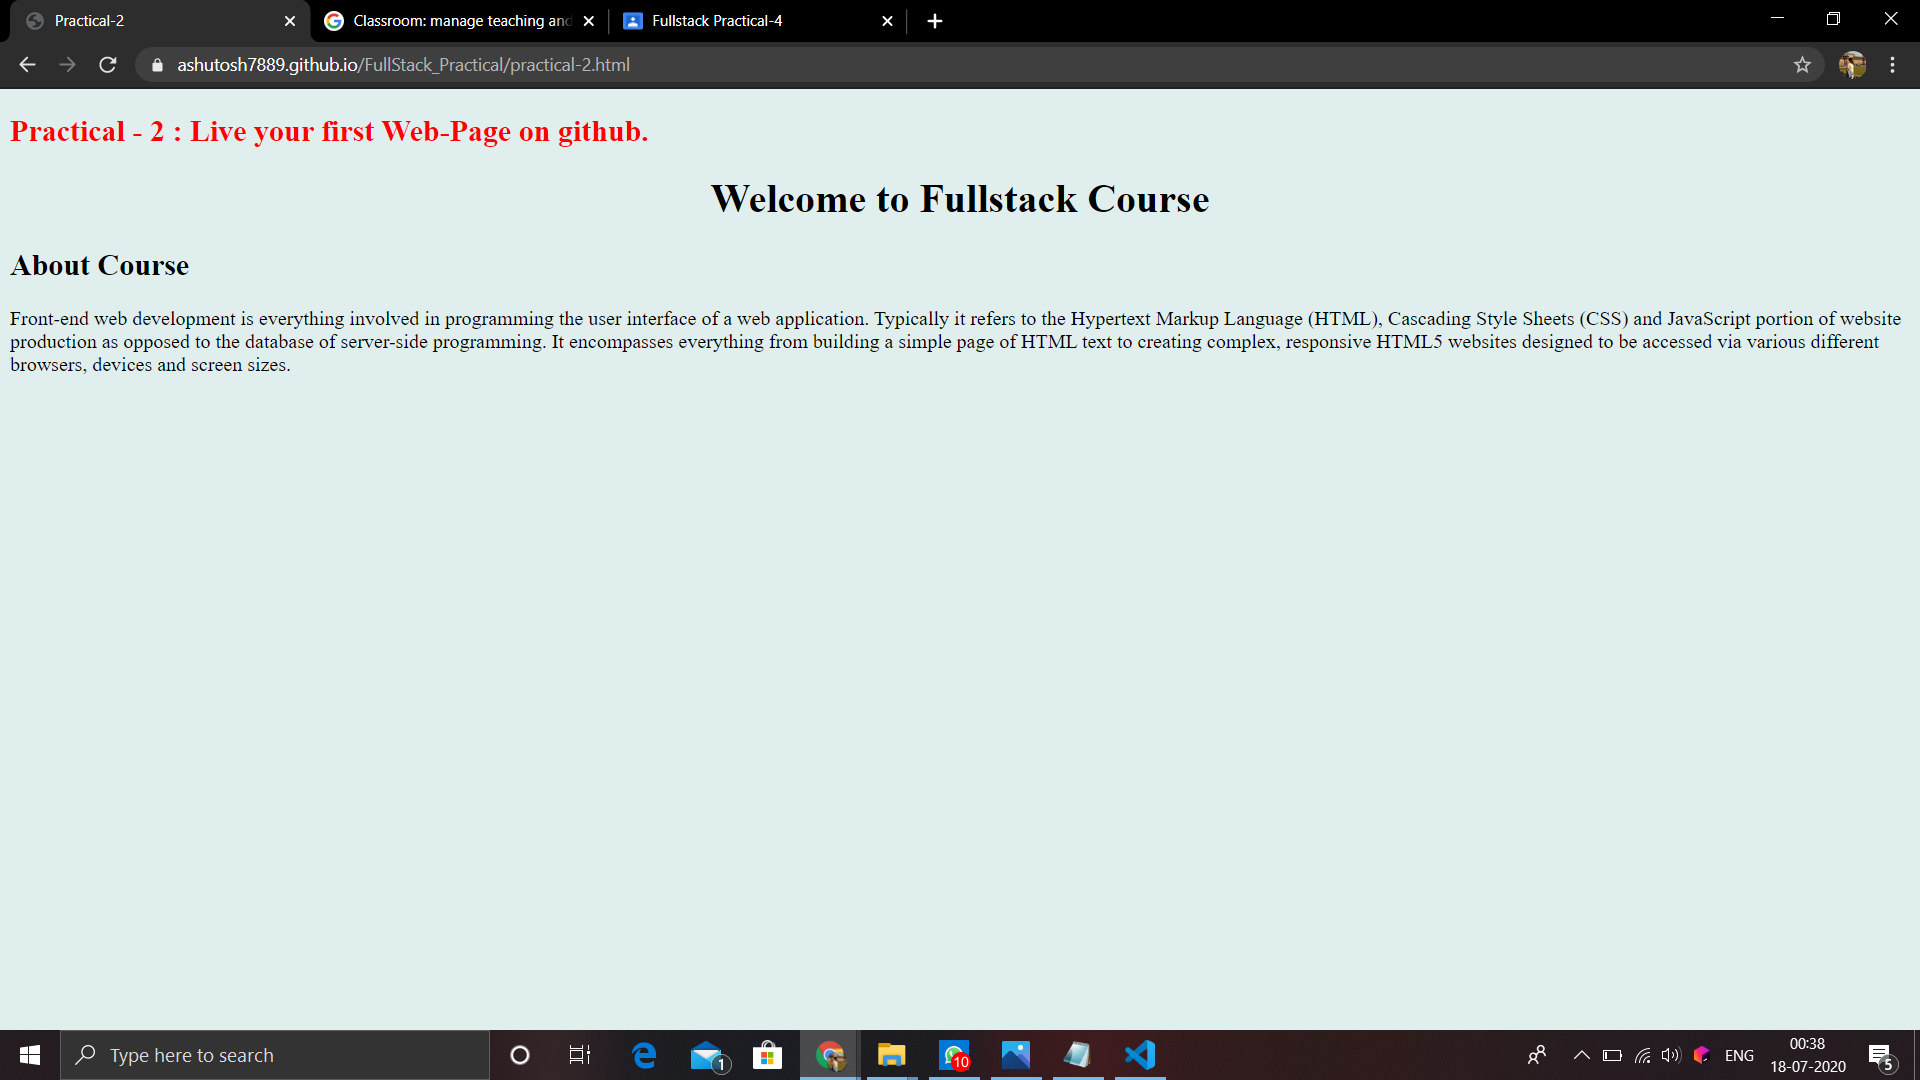
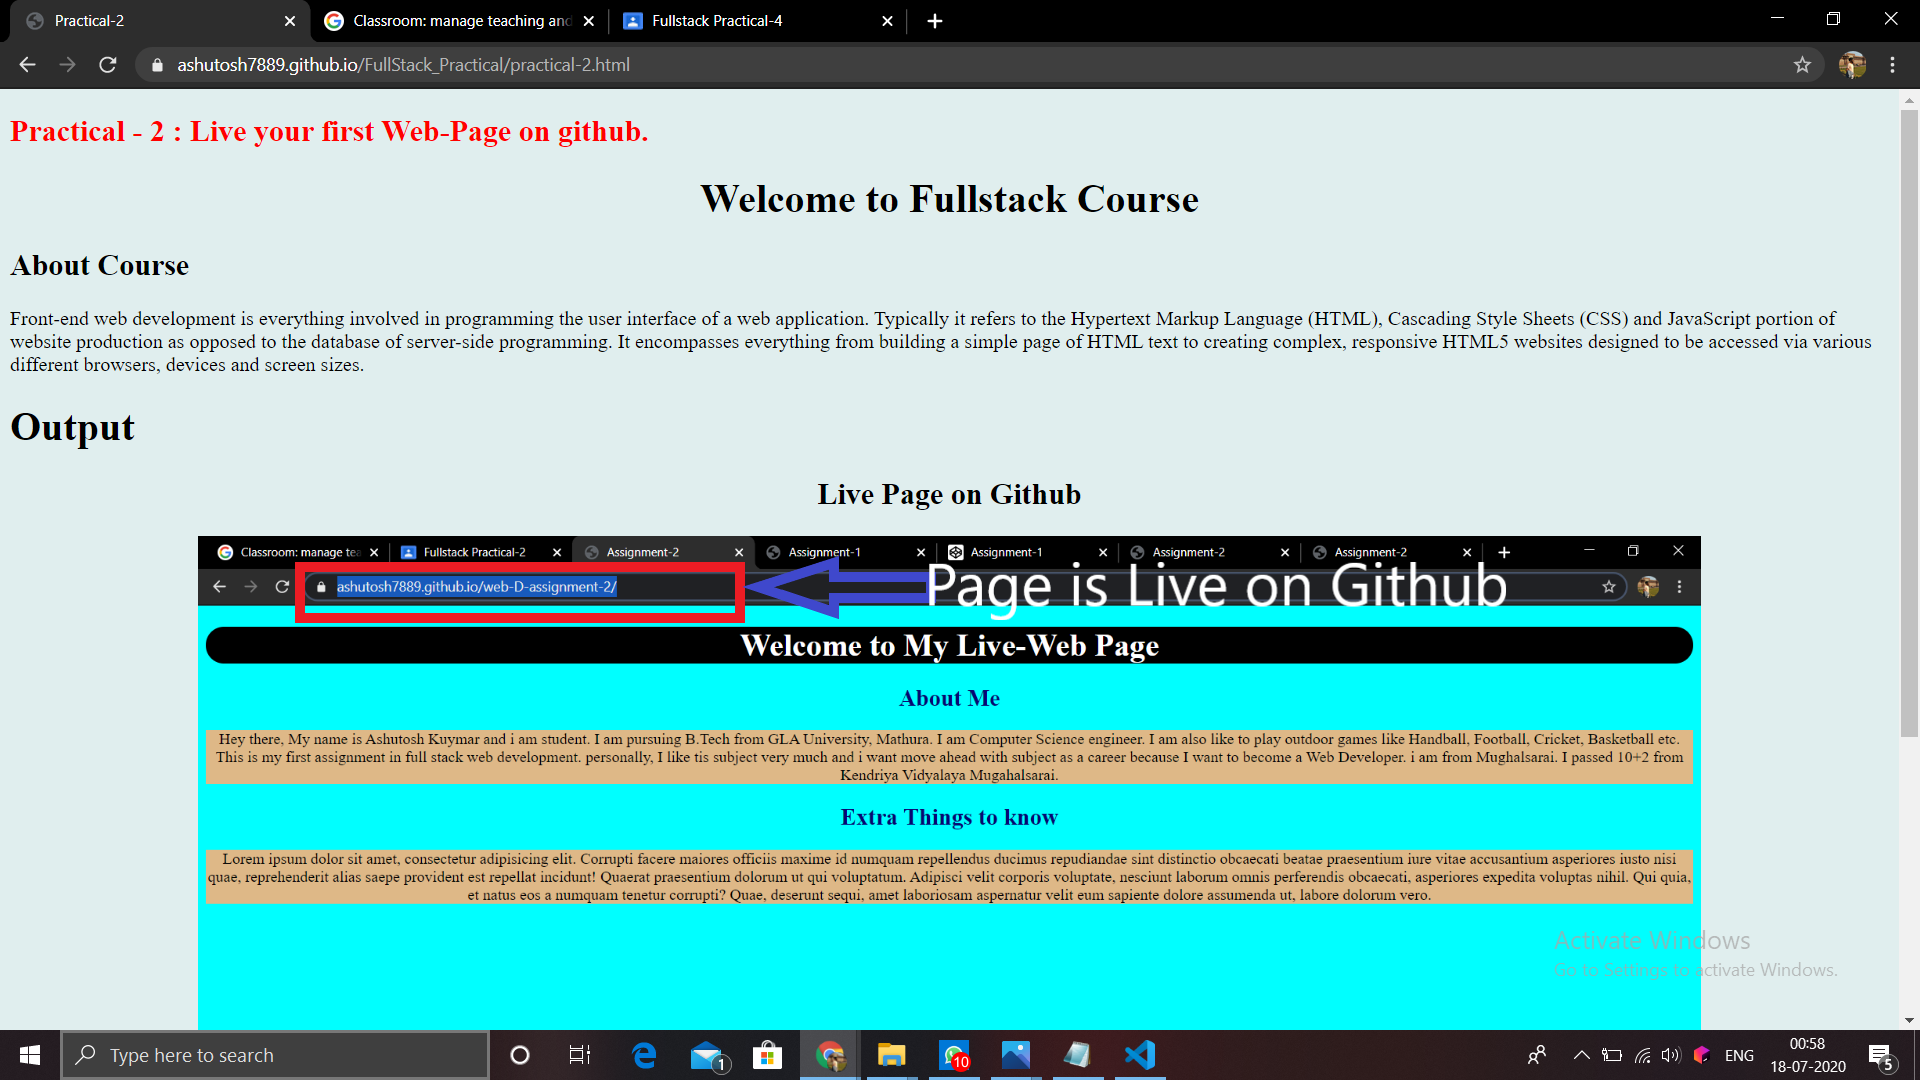
update the image.

diff --git a/practical-2.html b/practical-2.html
@@ -15,7 +15,7 @@
     <h2 style="text-align: center;">Live Page on Github</h2>
     <p><a href="https://ashutosh7889.github.io/FullStack_Practical/practical-2.html" target="_blank"><img
             alt="Not Found !!!"
-            src="img/p4.png"
+            src="img/p3.png"
             style="width: 80%; display: block; margin-left: auto; margin-right: auto;"></a></p>
     
     <p><a href="index.html" id="button1"><b>Home</b></a></p> 
